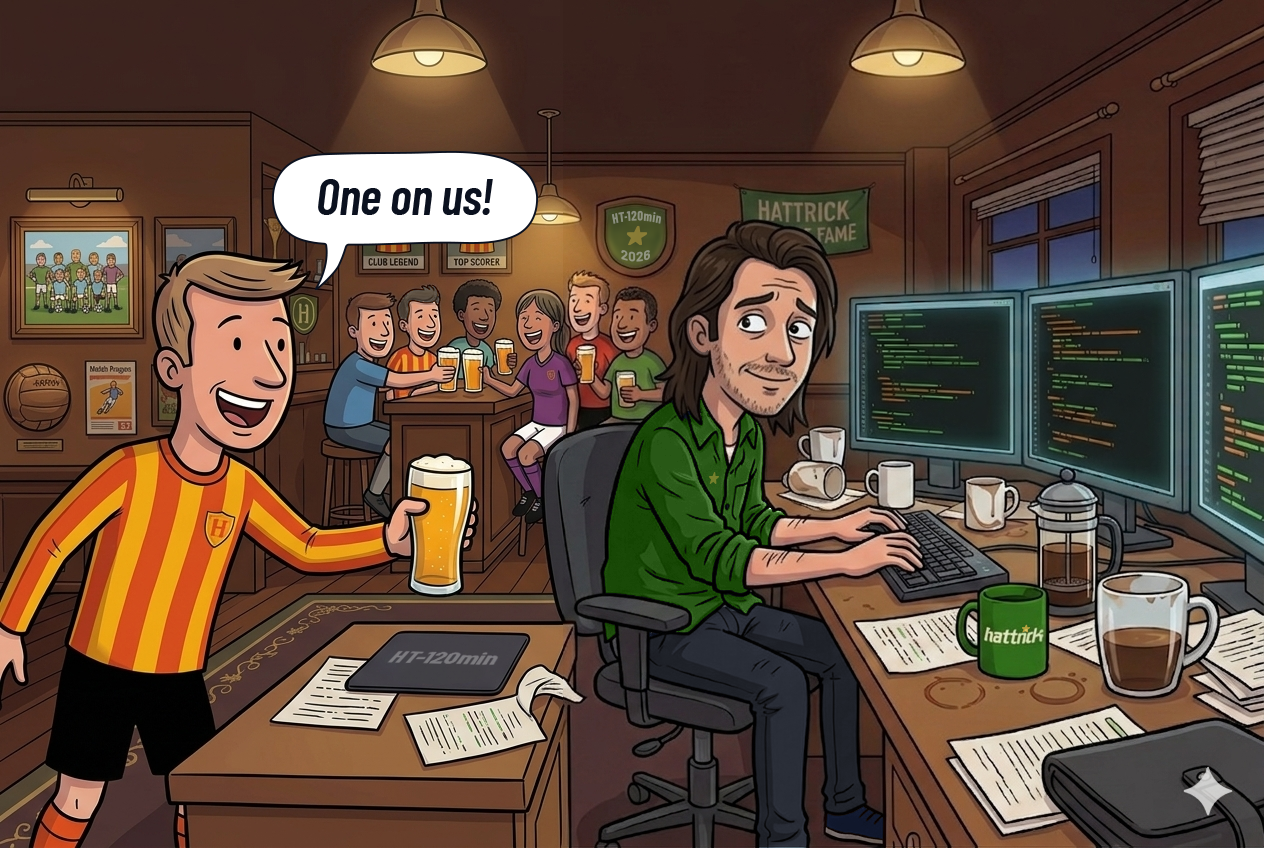
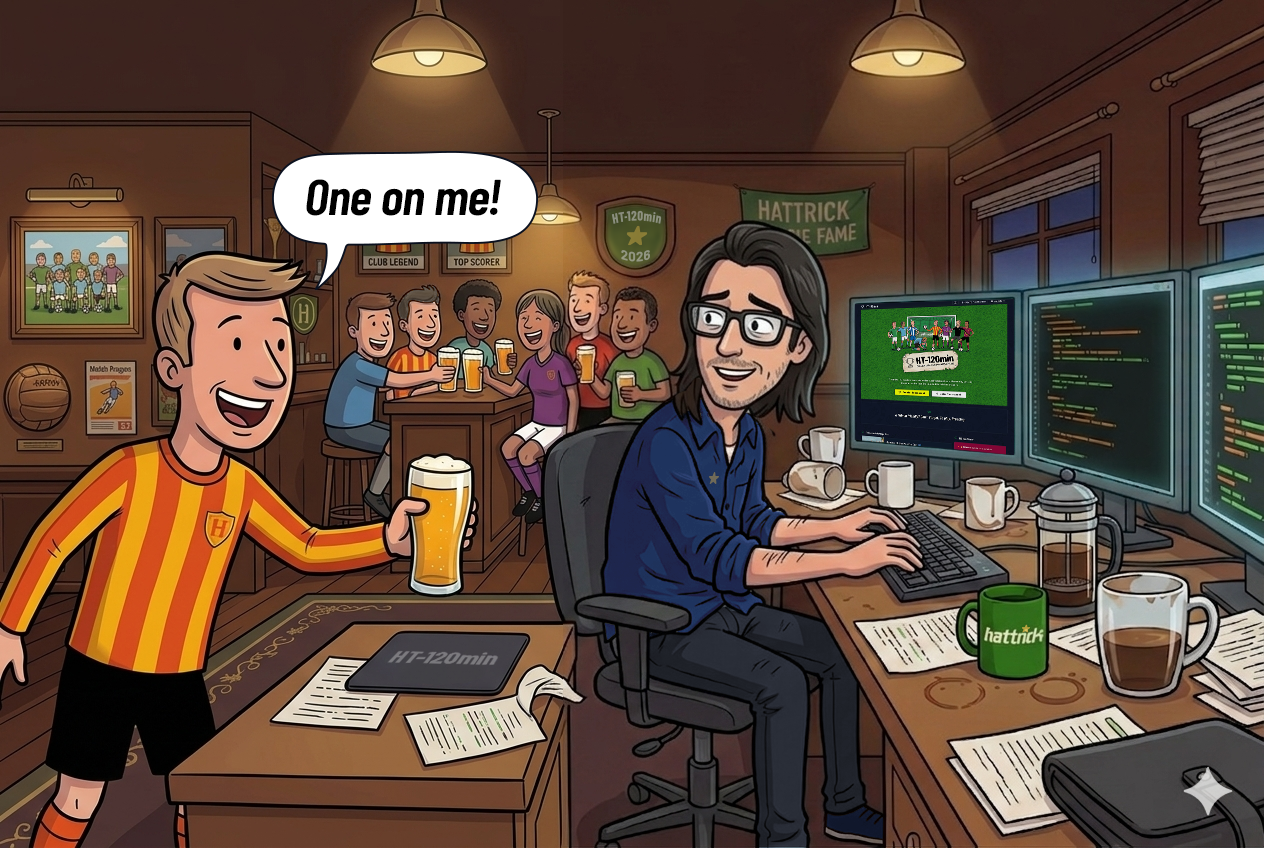
update/tinder section responsiveness updates

Changed region(s): [[0.4628, 0.2453, 0.8022, 0.7358], [0.216, 0.2146, 0.4011, 0.2759], [0.4628, 0.7358, 0.4937, 0.7665]]

diff --git a/src/pages/Public/Matchmaker.tsx b/src/pages/Public/Matchmaker.tsx
@@ -1361,44 +1361,6 @@ export const Matchmaker: React.FC = () => {
             <div className={styles.requestGrid}>
               {myRequests.map((req) => (
                 <div key={req.id} className={`${styles.myRequestCard} ${styles[req.status]}`} style={{ padding: 0 }}>
-                  {req.status === 'open' && (
-                    <div className={styles.inlineEditButtons}>
-                      <button
-                        type="button"
-                        className={styles.iconBtn}
-                        title="Edit Ad"
-                        onClick={() => {
-                          setSelectedHtTeamId(req.team?.ht_team_id || 0);
-                          setIsPosting(true);
-                        }}
-                      >
-                        <PencilSimple size={18} />
-                      </button>
-                      <button
-                        type="button"
-                        className={styles.iconBtn}
-                        title="Delete Ad"
-                        onClick={async () => {
-                          if (mockDataEnabled) {
-                            setMyRequests((prev) => prev.filter((item) => item.id !== req.id));
-                            setRequests((prev) => prev.filter((item) => item.id !== req.id));
-                            return;
-                          }
-
-                          if (confirm('Delete this friendly ad?')) {
-                            const { error } = await supabase.from('matchmaker_requests').delete().eq('id', req.id);
-                            if (!error) {
-                              void fetchMyRequests();
-                              void fetchRequests();
-                            }
-                          }
-                        }}
-                      >
-                        <Trash size={18} />
-                      </button>
-                    </div>
-                  )}
-
                   <div className={styles.tinderCard}>
                     <div className={styles.cardTop}>
                       <div className={styles.cardArena}>
@@ -1408,6 +1370,43 @@ export const Matchmaker: React.FC = () => {
                           </div>
                         )}
                       </div>
+                      {req.status === 'open' && (
+                        <div className={styles.inlineEditButtons}>
+                          <button
+                            type="button"
+                            className={styles.iconBtn}
+                            title="Edit Ad"
+                            onClick={() => {
+                              setSelectedHtTeamId(req.team?.ht_team_id || 0);
+                              setIsPosting(true);
+                            }}
+                          >
+                            <PencilSimple size={18} />
+                          </button>
+                          <button
+                            type="button"
+                            className={styles.iconBtn}
+                            title="Delete Ad"
+                            onClick={async () => {
+                              if (mockDataEnabled) {
+                                setMyRequests((prev) => prev.filter((item) => item.id !== req.id));
+                                setRequests((prev) => prev.filter((item) => item.id !== req.id));
+                                return;
+                              }
+
+                              if (confirm('Delete this friendly ad?')) {
+                                const { error } = await supabase.from('matchmaker_requests').delete().eq('id', req.id);
+                                if (!error) {
+                                  void fetchMyRequests();
+                                  void fetchRequests();
+                                }
+                              }
+                            }}
+                          >
+                            <Trash size={18} />
+                          </button>
+                        </div>
+                      )}
                       <div className={styles.cardRight}>
                         <div className={styles.teamInfo}>
                           <div className={styles.teamMain}>

diff --git a/src/pages/Public/Matchmaker.module.sass b/src/pages/Public/Matchmaker.module.sass
@@ -155,6 +155,9 @@
   justify-content: center
   width: 100%
 
+  @media (max-width: 620px)
+    gap: 0.5rem
+
   button
     background: transparent
     border: none
@@ -168,6 +171,10 @@
     text-transform: uppercase
     letter-spacing: 0.05em
     font-family: var(--mono)
+
+    @media (max-width: 620px)
+      font-size: 0.85rem
+      padding: 0.75rem 0
 
     &:hover
       color: var(--text-h)
@@ -303,8 +310,8 @@
   margin-bottom: 1rem
 
 .teamLogo
-  width: 4.5rem
-  height: 4.5rem
+  height: 5rem
+  width: auto
   object-fit: contain
   border-radius: var(--radius-sm)
 
@@ -628,6 +635,9 @@
     &:hover
       background: var(--bg-transp)
 
+  @media (max-width: 768px)
+    display: none
+
 .myRequests
   width: 100%
   max-width: 1000px
@@ -660,7 +670,7 @@
   background: var(--table-bg-main)
   color: white
   border: 1px solid var(--border)
-  border-radius: var(--radius-md)
+  border-radius: var(--radius-lg)
   margin: 0 auto 2rem
   padding: 0
   width: 100%
@@ -736,6 +746,51 @@
     z-index: 40
     display: flex
     gap: 0.5rem
+
+  @media (max-width: 768px)
+    .cardTop
+      display: grid
+      grid-template-columns: minmax(0, 1fr) auto
+      grid-template-areas: "arena edits" "content content"
+      align-items: start
+      padding-top: 1rem
+
+    .cardTop:not(:has(.inlineEditButtons))
+      grid-template-columns: 1fr
+      grid-template-areas: "arena" "content"
+
+    .cardArena
+      grid-area: arena
+      width: auto
+      height: auto
+      min-height: 0
+      background: transparent
+
+      .arenaFrame
+        position: relative
+        left: 0
+        top: -2rem
+        width: calc(791px / 5)
+        height: calc(605px / 5)
+        padding: 0.35rem
+        transform: rotate(-6deg)
+
+        img
+          padding: 0.25rem
+
+    .inlineEditButtons
+      grid-area: edits
+      position: static
+      align-self: start
+      justify-self: end
+      margin: 0.25rem 0.75rem 0 0
+
+    .cardRight
+      grid-area: content
+      padding: 0 1rem 1.5rem
+
+  .teamName
+    font-size: 1.75rem !important
 
   .iconBtn
     display: inline-flex

diff --git a/src/pages/Create/CreateTournament.tsx b/src/pages/Create/CreateTournament.tsx
@@ -1,5 +1,5 @@
 import React, { useState, useEffect, useCallback } from 'react';
-import { useNavigate } from 'react-router-dom';
+import { useNavigate, Link as RouterLink } from 'react-router-dom';
 import { supabase } from '../../lib/supabase';
 import { nanoid } from 'nanoid';
 import { Button } from '../../components/Button/Button';
@@ -77,7 +77,9 @@ const SidebarContent = ({ openTournaments }: { openTournaments: OpenTournamentSu
       <ul className={styles.widgetList}>
         {openTournaments.map((tournament) => (
           <li key={tournament.id} className={styles.widgetItem}>
-            <strong>{tournament.name}</strong>
+            <strong>
+              <RouterLink to={`/t/${tournament.slug}`}>{tournament.name}</RouterLink>
+            </strong>
             <span>{formatOpenTournamentMeta(tournament)}</span>
           </li>
         ))}